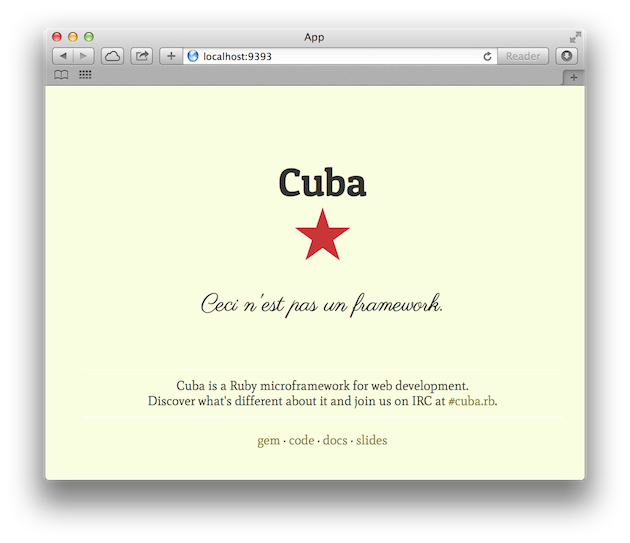
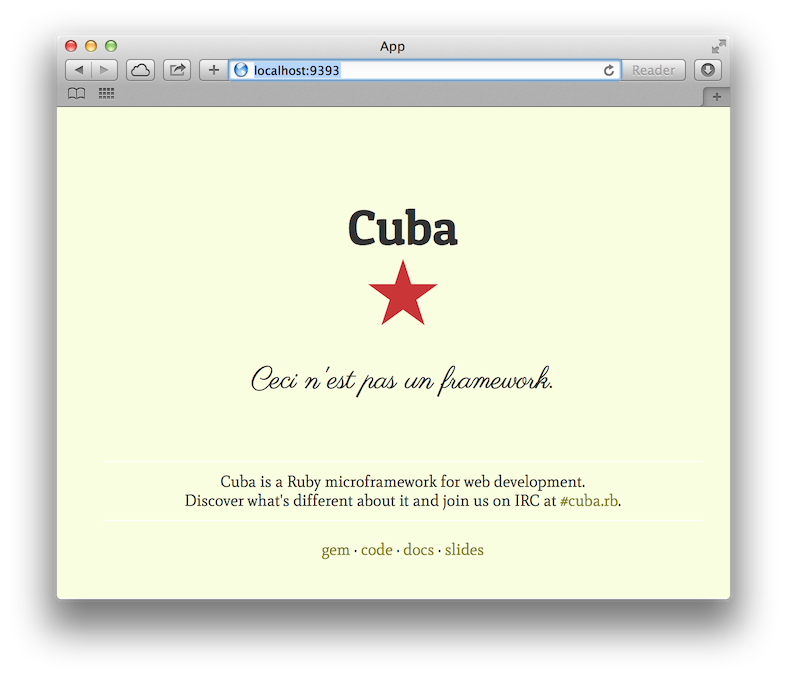
Fix image.

diff --git a/setting_the_road/up_and_running.md b/setting_the_road/up_and_running.md
@@ -5,14 +5,9 @@ Now that we've installed the dependencies, it's time to see how our
 minimal application looks.
 
 To get it up and running, we need to create a file with some
-configurations. Go to the command line and type:
+configurations. Go to the command line and type `make setup`.
 
-```
-$ make setup
-echo APP_KEY=$(basename $(pwd)) >> env.sh
-echo APP_SECRET=$(make secret | grep -v 'ruby') >> env.sh
-echo REDIS_URL=redis://127.0.0.1:6379/ >> env.sh
-```
+![setup](https://raw.githubusercontent.com/frodsan/theguidetocuba/master/assets/setup.png)
 
 As you can see, this created a file called *env.sh*. For now, it's enough
 for you to know that this file contains sensitive configurations for the
@@ -21,3 +16,11 @@ application. We'll discuss this in more detail later.
 To see the application in action, type `make server` in the command line.
 
 ![shotgun](https://raw.githubusercontent.com/frodsan/theguidetocuba/master/assets/shotgun.png)
+
+Unlike before, we're now using *shotgun* instead of *rackup*. *Shotgun*
+is a gem that reloads the application for every request. That's great for
+development because we don't need to restart the server every time that
+we change the application. Now navigate to <http://localhost:9393/>. It
+should show the Cuba welcome page.
+
+![home](https://raw.githubusercontent.com/frodsan/theguidetocuba/master/assets/home.png)
